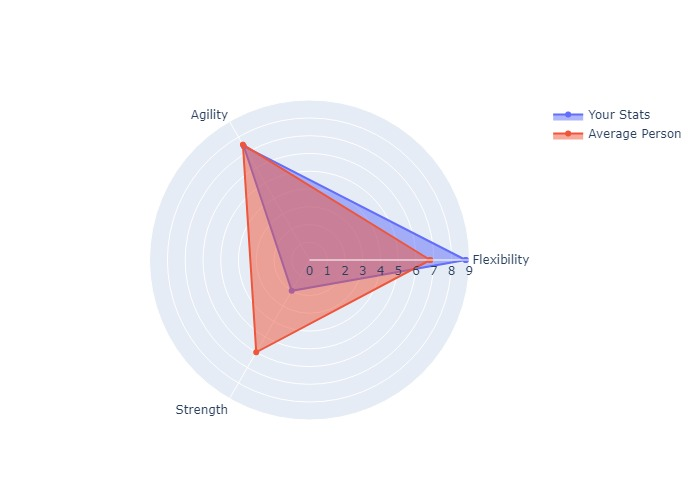
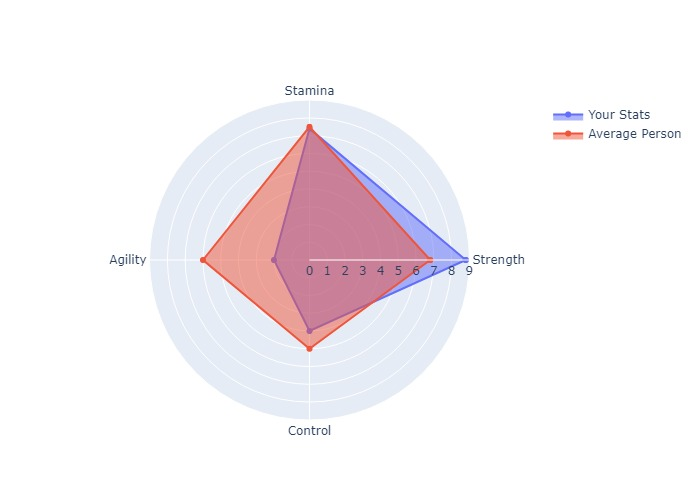
changed top title, imputted new background image, added a new parameter for radar plot, inputted 2 new titles in the menu instead of placeholders

diff --git a/armorlab.py b/armorlab.py
@@ -6,18 +6,19 @@ from kivy.core.text import Label
 from kivy.garden.matplotlib.backend_kivyagg import FigureCanvasKivyAgg
 from kivy.uix.screenmanager import ScreenManager, Screen, NoTransition
 from kivy.clock import Clock
+from kivy.core.window import Window
 import plotly.graph_objects as go
 import plotly.offline as pyo
 import os
 
-
+Window.size = (500,740)
 
 def createMainRadarPlot(): 
-    categories = ['Flexibility', 'Agility', 'Strength']
+    categories = ['Strength', 'Stamina', 'Agility', 'Control']
     categories = [*categories, categories[0]]
 
-    subject = [8.8, 7.4, 2.0]
-    average_person = [6.8, 7.5, 6.0]
+    subject = [8.8, 7.4, 2.0, 4.0]
+    average_person = [6.8, 7.5, 6.0, 5.0]
     subject = [*subject, subject[0]]
     average_person = [*average_person, average_person[0]]
 
